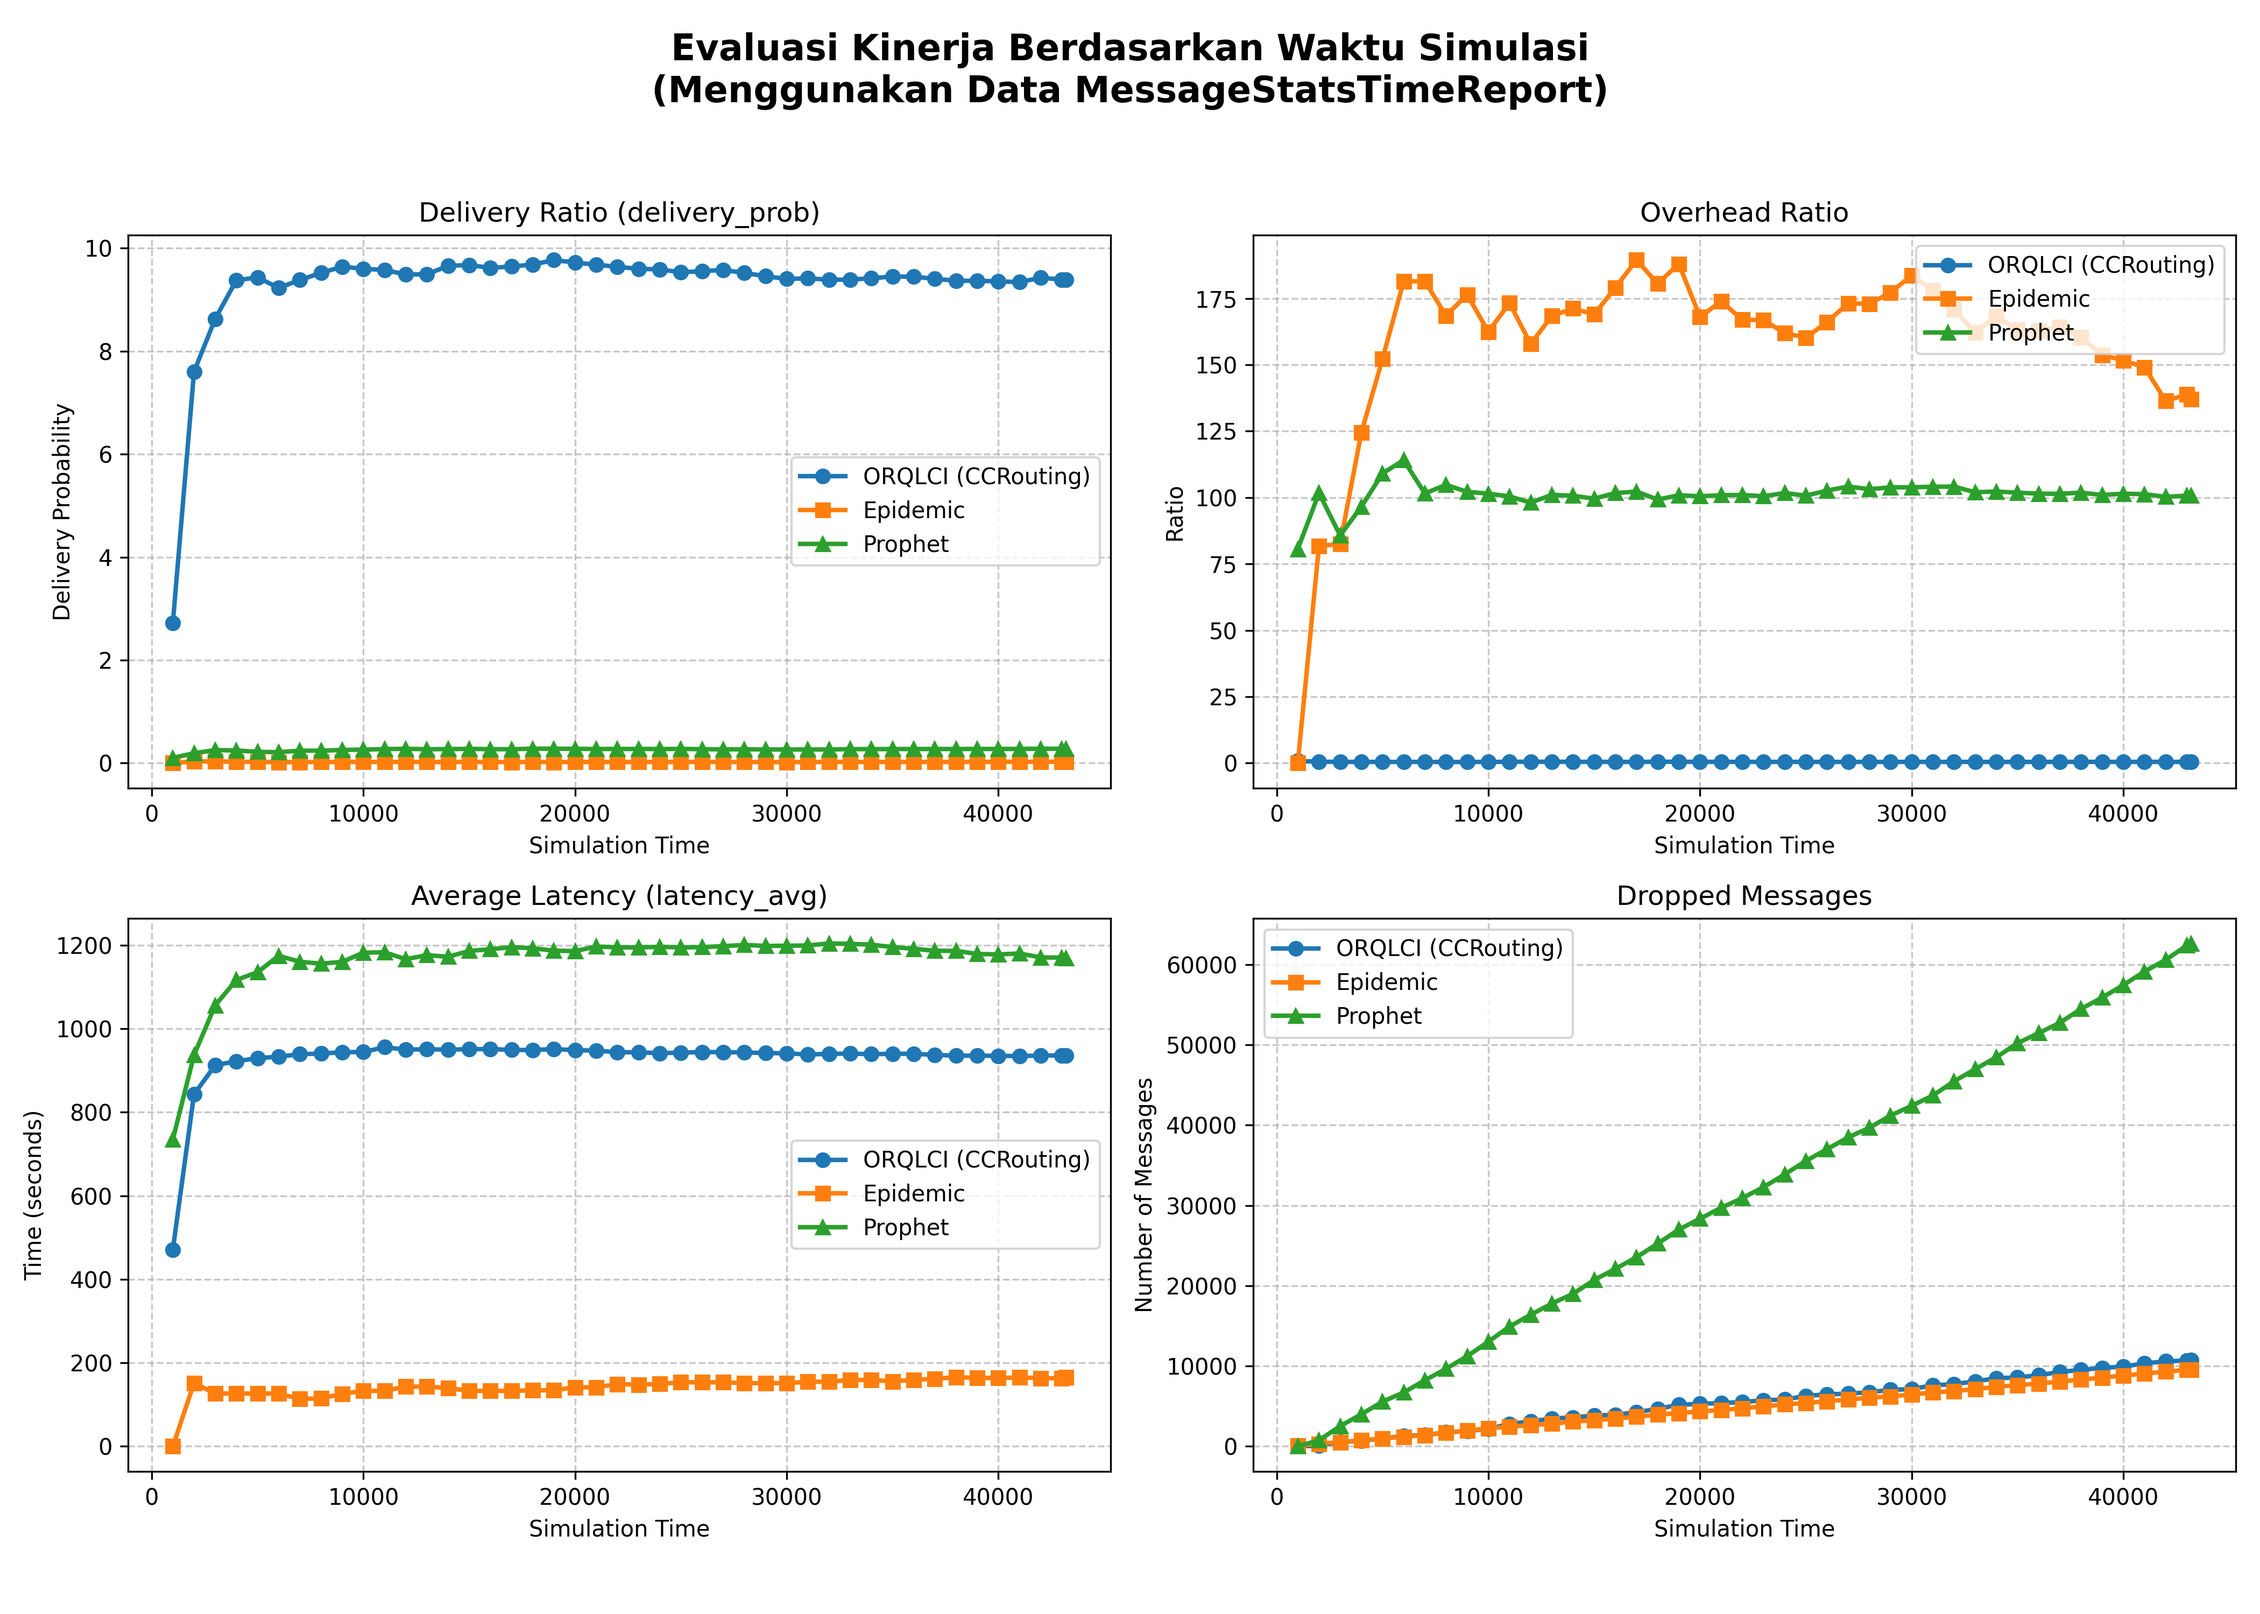
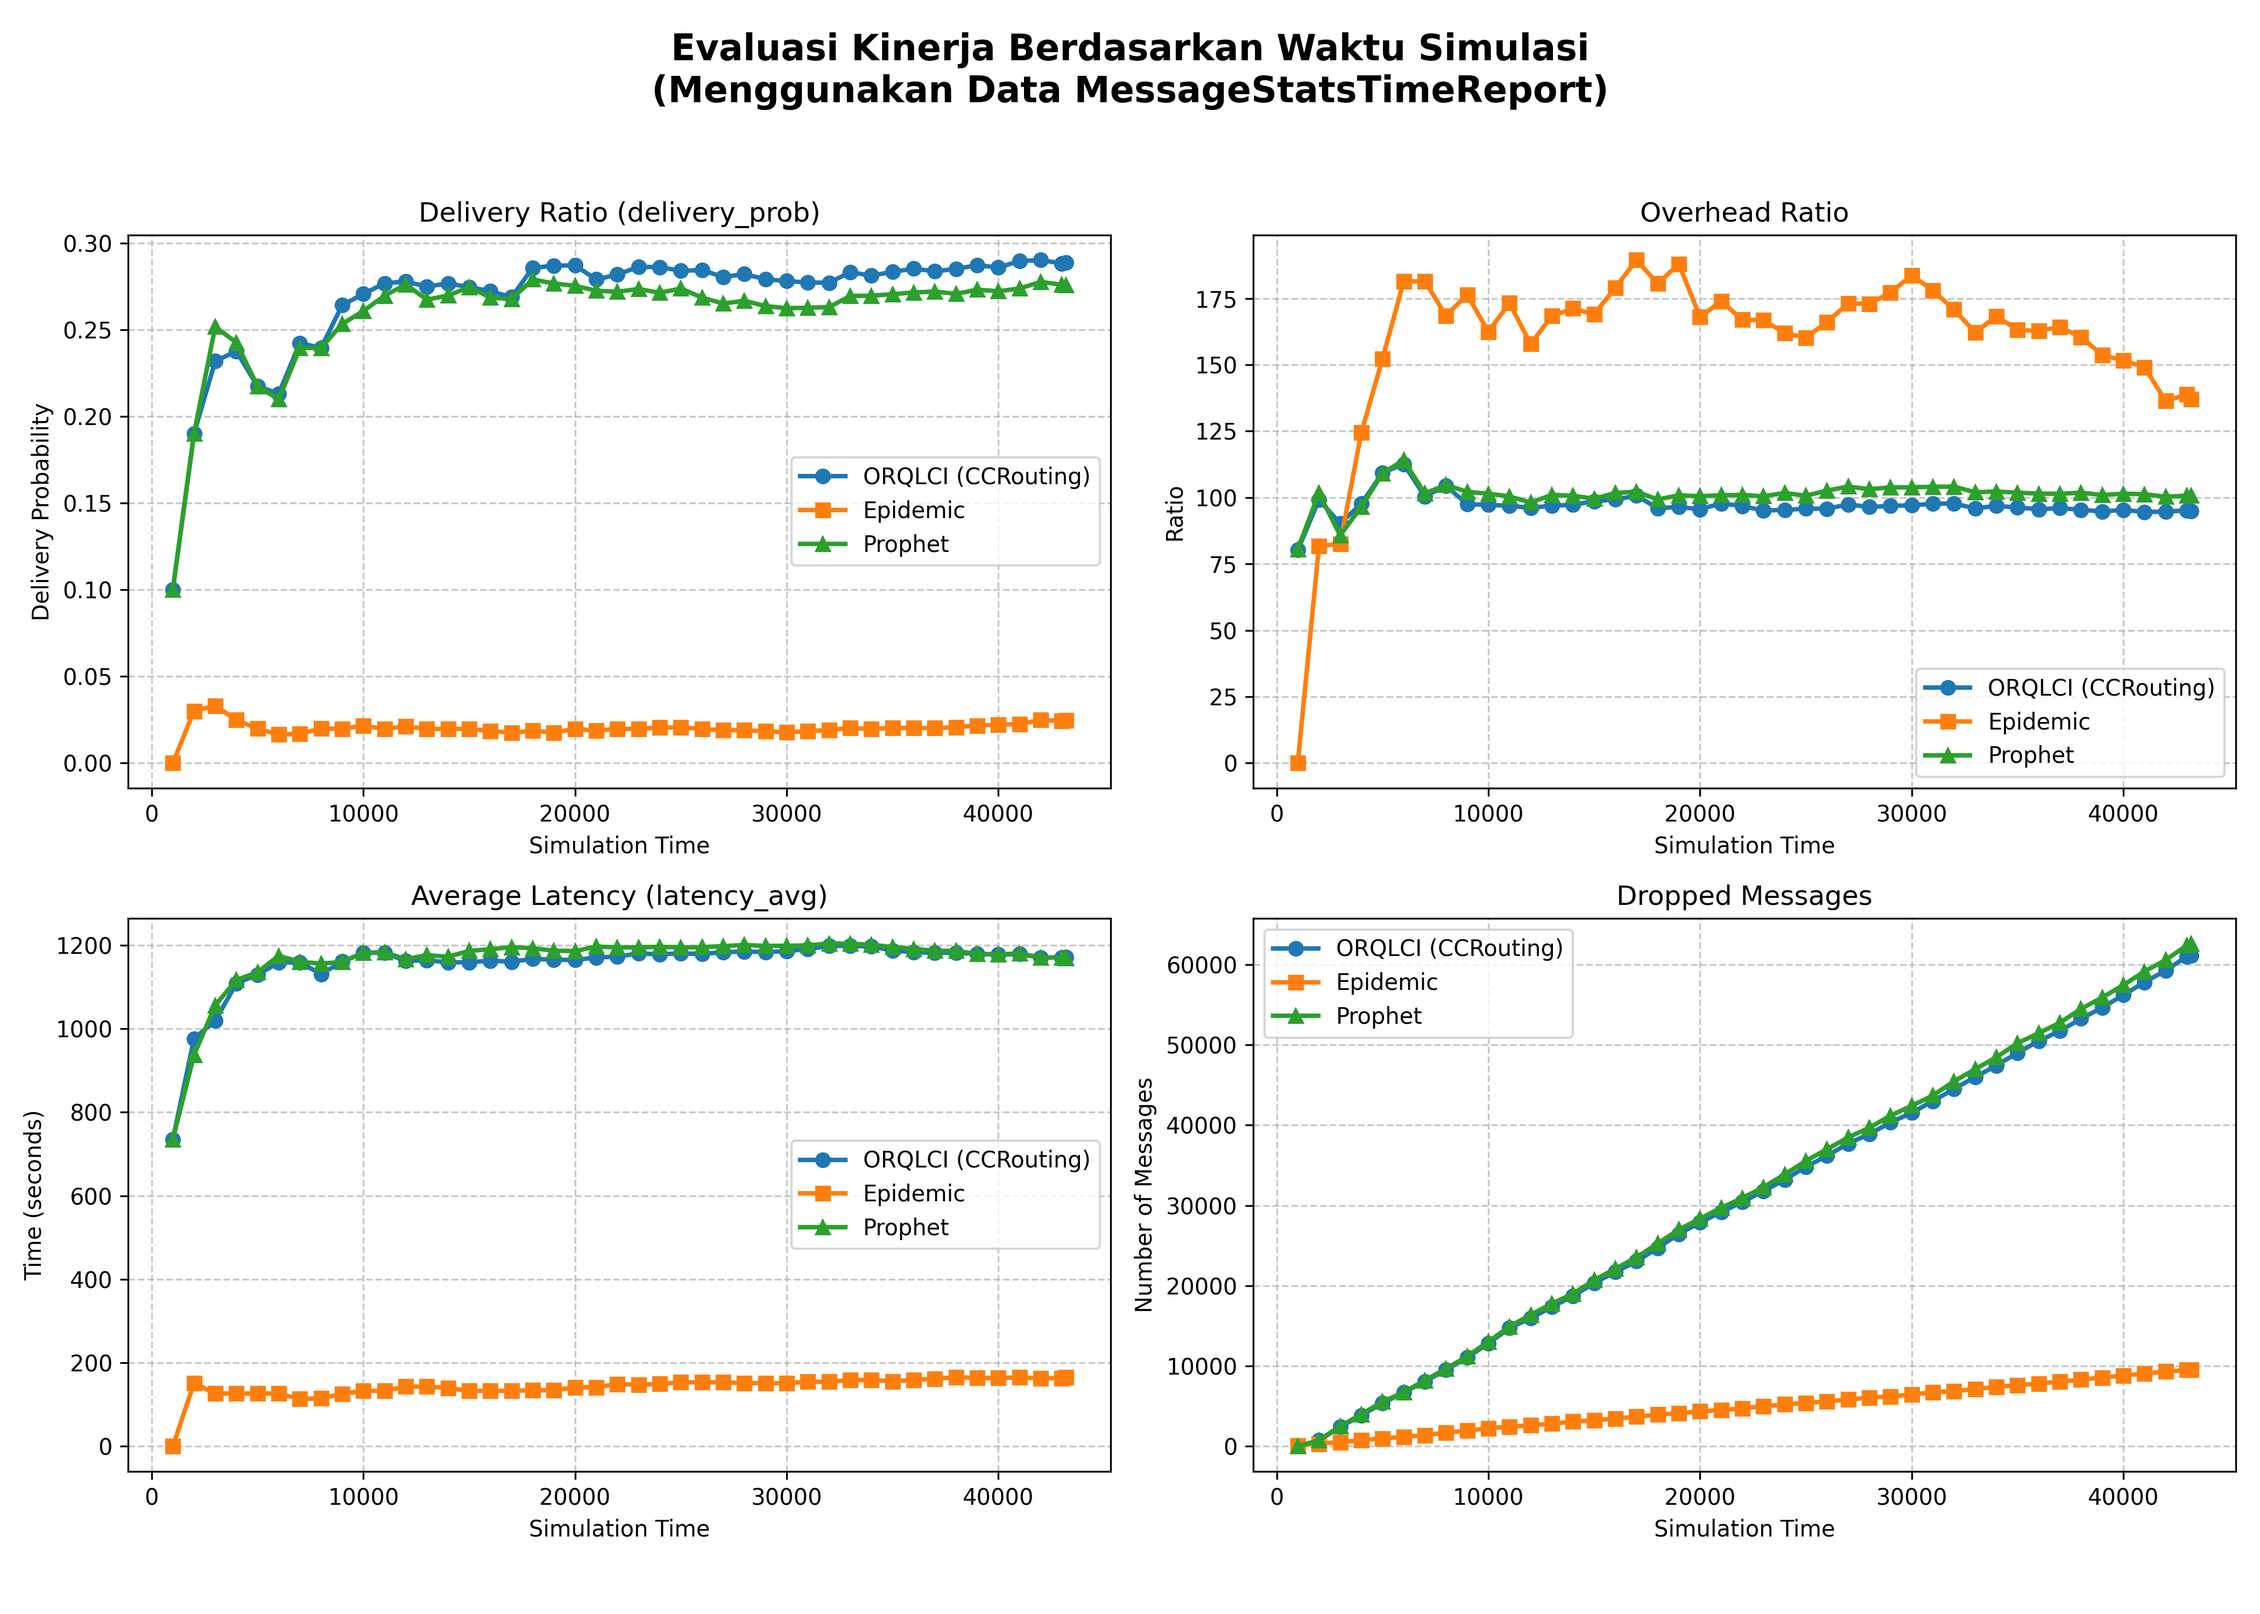
Changes to be committed: 	modified:   Bench_ConfigJurnal.txt 	modified:   one.bat 	modified:   routing_comparison_time_chart.png 	modified:   src/routing/CCRouting.java 	modified:   src/routing/QLearningRouter.java

diff --git a/src/routing/CCRouting.java b/src/routing/CCRouting.java
@@ -123,8 +123,13 @@ public class CCRouting extends QLearningRouter {
     protected void initQL() {
         this.explorationPolicy = new EpsilonGreedyExploration(0.989);
         this.ql = new QLearning(totalState, totalAction, this.explorationPolicy, false);
-        this.totalRewardWithNode = new LinkedHashMap<>();
         this.visitCount = new LinkedHashMap<>();
+    }
+
+    @Override
+    protected Boolean isFinalDest(Message m, DTNHost host) {
+        // Bandingkan alamat tujuan pesan dengan alamat host saat ini
+        return m.getTo().getAddress() == host.getAddress();
     }
 
     private void initPreds() {
@@ -359,11 +364,6 @@ public class CCRouting extends QLearningRouter {
         }
     }
 
-    @Override
-    public boolean isFinalDest(Message m) {
-        return m.getTo() == getHost();
-    }
-
     private Tuple<Message, Connection> tryOtherMessage() {
         List<Tuple<Message, Connection>> messages = new ArrayList<>();
         List<Tuple<Message, Connection>> tempMessages = new ArrayList<>();
@@ -380,9 +380,6 @@ public class CCRouting extends QLearningRouter {
             for (Message m : msgCollection) {
                 if (othRouter.hasMessage(m.getId())) continue; 
                 if (!shouldForwardByBufferFactor(m, other)) continue;
-                
-                // Jangan forward pesan yang tujuan akhirnya adalah SAYA (sudah sampai rumah)
-                if (m.getTo() == getHost()) continue;
 
                 int destinationAddress = m.getTo().getAddress();
                 newState = this.ql.GetAction(destinationAddress, other.getAddress(), this.waitForReward, false);

diff --git a/src/routing/QLearningRouter.java b/src/routing/QLearningRouter.java
@@ -38,7 +38,7 @@ public abstract class QLearningRouter extends ActiveRouter {
 	// learning rate
 	private double learningRate = 0.25;
 	// growth constant
-	private double growthConstant = 100;
+	protected double growthConstant = 100;
 
 	protected Map<DTNHost, Double> startTimestamps;
 	protected Map<DTNHost, List<Duration>> connHistory;
@@ -297,7 +297,7 @@ public abstract class QLearningRouter extends ActiveRouter {
 		this.tryAllMessagesToAllConnections();
 	}
 
-	private Boolean isFinalDest(Message m, DTNHost host) {
+	protected Boolean isFinalDest(Message m, DTNHost host) {
 		List<Boolean> topicMsg = (ArrayList) m.getProperty(MESSAGE_TOPICS_S);
 		int i = 0;
 		boolean exist = false;
